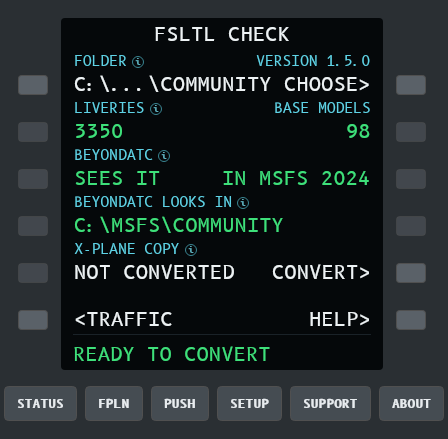
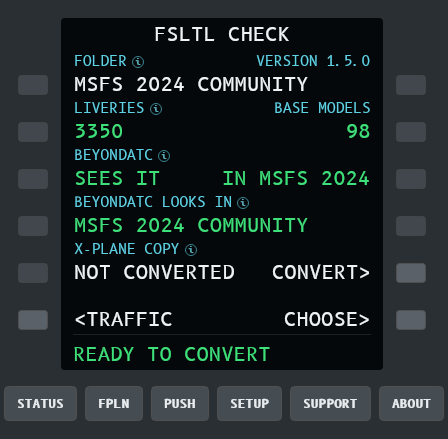
FSLTL CHECK: readable folder paths
MSFS's own Community folders are named (MSFS 2024 COMMUNITY); other paths keep
the drive and as many last folders as fit, dropping a bare Community first
(D:\MSFS2024 Packages, not C:\...\Community). The folder gets the whole line,
CHOOSE moves to the bottom row and the (i) help shows the whole path.

Claude-Session: https://claude.ai/code/session_0129p94YHrYKut7KH6ojqD3F

diff --git a/tests/ClearanceLink.Host.Tests/PanelTests.cs b/tests/ClearanceLink.Host.Tests/PanelTests.cs
@@ -322,6 +322,16 @@ public sealed class PanelTests
     {
         Assert.Equal(@"C:\BeyondATC", CduPages.ShortPath(@"C:\BeyondATC\", 18));
         Assert.Equal(@"D:\...\BeyondATC", CduPages.ShortPath(@"D:\Games\Flight Sim Add-ons\BeyondATC", 18));
+        // As many of the last folders as fit; a bare Community says nothing, so it goes first.
+        Assert.Equal(@"D:\...\Sims\BeyondATC", CduPages.ShortPath(@"D:\Games\Flight Sim Add-ons\Sims\BeyondATC", 24));
+        Assert.Equal(@"D:\MSFS2024 Packages", CduPages.ShortPath(@"D:\MSFS2024 Packages\Community", 24));
+        Assert.Equal(@"E:\...\MSFS\Community", CduPages.ShortPath(@"E:\Games\Microsoft\MSFS\Community", 24));
+        Assert.Equal(@"C:\...\MSFS stuff", CduPages.ShortPath(@"C:\Users\Ben\Documents\MSFS stuff\Community", 24));
+        // MSFS's own Community folders by name: the Store and Steam paths don't fit.
+        Assert.Equal("MSFS 2024 COMMUNITY", CduPages.PlaceName(@"C:\Users\Pilot\AppData\Local\Packages\Microsoft.Limitless_8wekyb3d8bbwe\LocalCache\Packages\Community", 24));
+        Assert.Equal("MSFS 2024 COMMUNITY", CduPages.PlaceName(@"C:\Users\Pilot\AppData\Roaming\Microsoft Flight Simulator 2024\Packages\Community", 24));
+        Assert.Equal("MSFS 2020 COMMUNITY", CduPages.PlaceName(@"C:\Users\Pilot\AppData\Local\Packages\Microsoft.FlightSimulator_8wekyb3d8bbwe\LocalCache\Packages\Community", 24));
+        Assert.Equal(@"D:\MSFS2024 Packages", CduPages.PlaceName(@"D:\MSFS2024 Packages\Community", 24));
     }
 
     [AvaloniaFact]
@@ -370,7 +380,8 @@ public sealed class PanelTests
         var page = CduPages.Build(PanelPage.Fsltl, good);
         Assert.Equal("FSLTL CHECK", page.Title);
         Assert.Equal(("3350", "98"), (page.Rows[1].Left.Text, page.Rows[1].Right.Text));
-        Assert.Equal((@"C:\...\COMMUNITY", "VERSION 1.5.0", "CHOOSE>"), (page.Rows[0].Left.Text, page.Rows[0].LabelRight, page.Rows[0].Right.Text));
+        Assert.Equal((@"C:\MSFS\COMMUNITY", "VERSION 1.5.0", ""), (page.Rows[0].Left.Text, page.Rows[0].LabelRight, page.Rows[0].Right.Text));
+        Assert.Contains(folder, page.Rows[0].Help);
         Assert.Equal(("SEES IT", "IN MSFS 2024"), (page.Rows[2].Left.Text, page.Rows[2].Right.Text));
         Assert.Equal(("3350 LIVERIES", CduKey.ConvertFsltl), (page.Rows[4].Left.Text, page.Rows[4].KeyRight));
         Assert.Equal(("FSLTL READY", CduColor.Green), (page.Scratchpad.Text, page.Scratchpad.Color));
@@ -400,7 +411,8 @@ public sealed class PanelTests
 
         // Converted fine, but MSFS 2024 is here without FSLTL in the Community folder BeyondATC reads (issue #29).
         page = CduPages.Build(PanelPage.Fsltl, good with { BatcModels = BatcTrafficModels.Outcome.NotInMsfs2024, BatcCommunity = @"C:\Users\Pilot\AppData\Roaming\Microsoft Flight Simulator 2024\Packages\Community" });
-        Assert.Equal(("BEYONDATC LOOKS IN", @"C:\...\COMMUNITY", CduColor.Amber), (page.Rows[3].LabelLeft, page.Rows[3].Left.Text, page.Rows[3].Left.Color));
+        Assert.Equal(("BEYONDATC LOOKS IN", "MSFS 2024 COMMUNITY", CduColor.Amber), (page.Rows[3].LabelLeft, page.Rows[3].Left.Text, page.Rows[3].Left.Color));
+        Assert.Contains(@"Roaming\Microsoft Flight Simulator 2024\Packages\Community", page.Rows[3].Help);
         Assert.Equal(("WON'T SEE IT", "NOT IN 2024"), (page.Rows[2].Left.Text, page.Rows[2].Right.Text));
         Assert.Equal("COPY FSLTL TO LOOKS IN", page.Scratchpad.Text);
         // MSFS 2024's settings name only a NextBoot folder: BeyondATC reads none.
@@ -420,7 +432,7 @@ public sealed class PanelTests
         // With MSFS, FSLTL is installed through it; with MSFS 2024, it must go there for BeyondATC.
         Assert.Equal("GET FSLTL OR CHOOSE IT", CduPages.Build(PanelPage.Fsltl, Ready).Scratchpad.Text);
         Assert.Equal("GET FSLTL FOR MSFS 2024", CduPages.Build(PanelPage.Fsltl, Ready with { BatcModels = BatcTrafficModels.Outcome.NotInMsfs2024 }).Scratchpad.Text);
-        Assert.Equal(CduKey.OpenModelsHelp, page.Rows[5].KeyRight);
+        Assert.Equal((CduKey.OpenModelsHelp, CduKey.ChooseFsltlFolder), (page.Rows[0].KeyRight, page.Rows[5].KeyRight));
 
         // Just after CHOOSE, the old folder's results aren't shown.
         page = CduPages.Build(PanelPage.Fsltl, noModels with { FsltlChecking = true });
@@ -512,8 +524,8 @@ public sealed class PanelTests
         // A typical first run: plugin not yet installed, Bluebell installed, FSLTL found but not converted.
         var firstRun = Ready with
         {
-            TrafficAddOn = PluginInstall.State.NotInstalled, CslPackages = 13, CslNames = "BLUEBELL", FsltlFolder = @"C:\MSFS\Community\fsltl-traffic-base",
-            FsltlHealth = new(3350, 98, 0, "1.5.0"), BatcModels = BatcTrafficModels.Outcome.Found, BatcCommunity = @"C:\MSFS\Community",
+            TrafficAddOn = PluginInstall.State.NotInstalled, CslPackages = 13, CslNames = "BLUEBELL", FsltlFolder = @"C:\Users\Pilot\AppData\Local\Packages\Microsoft.Limitless_8wekyb3d8bbwe\LocalCache\Packages\Community\fsltl-traffic-base",
+            FsltlHealth = new(3350, 98, 0, "1.5.0"), BatcModels = BatcTrafficModels.Outcome.Found, BatcCommunity = @"C:\Users\Pilot\AppData\Local\Packages\Microsoft.Limitless_8wekyb3d8bbwe\LocalCache\Packages\Community",
         };
         var window = new PanelWindow(() => firstRun);
         window.Show();
@@ -544,8 +556,8 @@ public sealed class PanelTests
         };
         var flying = Ready with
         {
-            TrafficAddOn = PluginInstall.State.Installed, TrafficAircraft = 23, CslPackages = 13, CslNames = "BLUEBELL", FsltlFolder = @"C:\MSFS\Community\fsltl-traffic-base", FsltlLiveries = 3154,
-            FsltlHealth = new(3154, 98, 0, "1.5.0"), BatcModels = BatcTrafficModels.Outcome.Found, BatcCommunity = @"C:\MSFS\Community",
+            TrafficAddOn = PluginInstall.State.Installed, TrafficAircraft = 23, CslPackages = 13, CslNames = "BLUEBELL", FsltlFolder = @"C:\Users\Pilot\AppData\Local\Packages\Microsoft.Limitless_8wekyb3d8bbwe\LocalCache\Packages\Community\fsltl-traffic-base", FsltlLiveries = 3154,
+            FsltlHealth = new(3154, 98, 0, "1.5.0"), BatcModels = BatcTrafficModels.Outcome.Found, BatcCommunity = @"C:\Users\Pilot\AppData\Local\Packages\Microsoft.Limitless_8wekyb3d8bbwe\LocalCache\Packages\Community",
             FlightPlan = new FlightPlanView(plan, sent.AddMinutes(-2), SavedAs: plan.FileName, SentAt: sent),
         };
         var cleared = new PushView(new PushClearance(sent.AddMinutes(4), 90, "EAST", "pushback approved. Face east."), Preview: new PushPlan(21, 90, 39, "B"), XPlane: true, BetterPushback: true, Automatic: true, Stage: PushStage.WaitingForBrake, BrakeSet: true);

diff --git a/src/ClearanceLink.Host/Panel/CduPage.cs b/src/ClearanceLink.Host/Panel/CduPage.cs
@@ -645,21 +645,24 @@ public static class CduPages
         };
         var looksIn = s switch
         {
-            { BatcCommunity: { } community } => new CduCell(ShortPath(community, Width), s.BatcModels == BatcTrafficModels.Outcome.Found ? CduColor.Green : CduColor.Amber),
             { BatcModels: BatcTrafficModels.Outcome.Pointed or BatcTrafficModels.Outcome.PointedByAnother } => new CduCell("YOUR FSLTL FOLDER", CduColor.Green),
+            { BatcCommunity: { } community } => new CduCell(PlaceName(community, Width), s.BatcModels == BatcTrafficModels.Outcome.Found ? CduColor.Green : CduColor.Amber),
             // MSFS 2024's settings name no packages folder BeyondATC reads (only a NextBoot one, say).
             { BatcModels: BatcTrafficModels.Outcome.NotInMsfs2024 } => new CduCell("NOT SET IN MSFS 2024", CduColor.Amber),
             _ => new CduCell("-"),
         };
         var rows = new[]
         {
+            // The folder gets the whole line (CHOOSE is on the bottom row); the full path is in the (i) help.
             (s.FsltlChecking
                 ? Row("FOLDER", "", new("CHECKING..."), new(""))
                 : s.FsltlFolder is null
-                ? Row("FOLDER", "", new("NOT FOUND", CduColor.Amber), new("CHOOSE>"), CduKey.ChooseFsltlFolder, CduKey.ChooseFsltlFolder)
+                ? Row("FOLDER", "", new("NOT FOUND", CduColor.Amber), new("HOW TO GET>"), CduKey.None, CduKey.OpenModelsHelp)
                 : Row("FOLDER", h?.Version is { } v ? Fit($"VERSION {v.ToUpperInvariant()}", 13) : "",
-                    new(ShortPath(Parent(s.FsltlFolder), Width - 8)), new("CHOOSE>"), CduKey.ChooseFsltlFolder, CduKey.ChooseFsltlFolder))
-                with { Help = "Where the fsltl-traffic-base folder ClearanceLink uses is, and FSLTL's version. CHOOSE picks another." },
+                    new(PlaceName(Parent(s.FsltlFolder), Width)), new("")))
+                with { Help = s.FsltlFolder is { } folder && !s.FsltlChecking
+                    ? $"FSLTL is in {folder}. CHOOSE on the bottom row picks another folder."
+                    : "Where the fsltl-traffic-base folder ClearanceLink uses is, and FSLTL's version. CHOOSE on the bottom row picks it." },
             (known
                 ? Row("LIVERIES", "BASE MODELS",
                     h!.Liveries > 0 ? new($"{h.Liveries}", CduColor.Green) : new("NONE", CduColor.Amber),
@@ -669,9 +672,11 @@ public static class CduPages
             Row("BEYONDATC", "", batc.Item1, batc.Item2)
                 with { Help = "Whether BeyondATC will find FSLTL. Without MSFS 2024, ClearanceLink shows it your FSLTL folder while it's open." },
             Row("BEYONDATC LOOKS IN", "", looksIn, new(""))
-                with { Help = "The only Community folder BeyondATC reads, from MSFS 2024's settings (UserCfg.opt). FSLTL must be in it." },
+                with { Help = s.BatcCommunity is { } where && !s.FsltlChecking
+                    ? $"BeyondATC reads {where}, from MSFS 2024's settings (UserCfg.opt). FSLTL must be in it."
+                    : "The only Community folder BeyondATC reads, from MSFS 2024's settings (UserCfg.opt). FSLTL must be in it." },
             CopyRow(s) with { Help = "The copy of FSLTL converted for X-Plane. Close X-Plane to convert or update it." },
-            Row("", "", new("<TRAFFIC"), new("HELP>"), CduKey.GoTraffic, CduKey.OpenModelsHelp),
+            Row("", "", new("<TRAFFIC"), new("CHOOSE>"), CduKey.GoTraffic, CduKey.ChooseFsltlFolder),
         };
         // A conversion runs in the background: its failure, or the restart it needs, must show here too.
         var line = flash is not null ? new CduCell(flash)
@@ -849,6 +854,10 @@ public static class CduPages
         return cut > 0 ? path[..cut] : path;
     }
 
+    /// <summary>
+    /// A path that fits: whole, else the drive and as many of the last folders as fit (C:\...\Sims\BeyondATC). A
+    /// trailing Community says nothing on its own, so it is dropped before the folder above it would be.
+    /// </summary>
     public static string ShortPath(string path, int max)
     {
         path = path.TrimEnd('\\', '/');
@@ -859,8 +868,51 @@ public static class CduPages
 
         // Split by hand: these are Windows paths, also when the tests run elsewhere.
         var parts = path.Split('\\', '/');
-        var shortened = $"{parts[0]}\\...\\{parts[^1]}";
-        return shortened.Length <= max ? shortened : "..." + parts[^1][^Math.Min(parts[^1].Length, max - 3)..];
+        var community = parts.Length > 2 && parts[^1].Equals("Community", StringComparison.OrdinalIgnoreCase);
+        foreach (var segments in community ? new[] { parts, parts[..^1] } : [parts])
+        {
+            if (string.Join('\\', segments) is { } whole && whole.Length <= max && segments.Length < parts.Length)
+            {
+                return whole;
+            }
+
+            for (var n = segments.Length - 2; n >= (community && segments == parts ? 2 : 1); n--)
+            {
+                var tail = $"{segments[0]}\\...\\{string.Join('\\', segments[^n..])}";
+                if (tail.Length <= max)
+                {
+                    return tail;
+                }
+            }
+        }
+
+        var last = community ? parts[^2] : parts[^1];
+        return "..." + last[^Math.Min(last.Length, max - 3)..];
+    }
+
+    /// <summary>
+    /// A Community folder by name when it is MSFS's own (MSFS 2024 COMMUNITY), else as <see cref="ShortPath"/>: the
+    /// Store and Steam paths are too long to tell apart in 24 characters.
+    /// </summary>
+    public static string PlaceName(string path, int max)
+    {
+        var p = path.TrimEnd('\\', '/').Replace('/', '\\');
+        if (p.EndsWith(@"\Packages\Community", StringComparison.OrdinalIgnoreCase))
+        {
+            if (p.Contains(@"\Microsoft.Limitless_8wekyb3d8bbwe\", StringComparison.OrdinalIgnoreCase)
+                || p.Contains(@"\Microsoft Flight Simulator 2024\", StringComparison.OrdinalIgnoreCase))
+            {
+                return "MSFS 2024 COMMUNITY";
+            }
+
+            if (p.Contains(@"\Microsoft.FlightSimulator_8wekyb3d8bbwe\", StringComparison.OrdinalIgnoreCase)
+                || p.Contains(@"\Microsoft Flight Simulator\", StringComparison.OrdinalIgnoreCase))
+            {
+                return "MSFS 2020 COMMUNITY";
+            }
+        }
+
+        return ShortPath(path, max);
     }
 
     public static string Duration(TimeSpan t) => t.TotalHours >= 1

diff --git a/docs/STATUS.md b/docs/STATUS.md
@@ -41,7 +41,7 @@ _Update this file in every PR that changes behaviour._
 ## Not yet verified
 - `serve` in flight (only ground work to taxi is verified). Wind (`verify: true`) not compared with the cockpit; design speeds and wingspan are fixed values.
 - MSFS starting while ClearanceLink is running (step-aside).
-- FSLTL CHECK and CSL MODELS (2026-10-06, research and plan in the "FSLTL checks and traffic sources" thread; not yet run on Ben's PC): a chosen FSLTL folder is now checked, not just accepted. `FsltlCheck` counts its liveries, the base models they use and liveries whose model is missing, and reads FSLTL's version (done again only for another folder or version; one `fsltl-check:` log line each time). A new FSLTL CHECK page (CHECK> on TRAFFIC's BEYONDATC TRAFFIC line, which is now always shown) lists the folder and version, liveries and base models, whether BeyondATC sees FSLTL (in MSFS 2024, while ClearanceLink is open, or not), the X-Plane copy, and one bottom line saying what to do. Choosing an FSLTL folder opens it. TRAFFIC's FSLTL line says NO BASE MODELS (CHECK>) and SETUP says CHECK FSLTL when the folder has liveries but no models; BEYONDATC TRAFFIC says NOT IN MSFS 2024 instead of NO FSLTL when MSFS 2024 is installed without FSLTL in its Community folder (issue #29). The BLUEBELL line is now CSL MODELS and names what is installed (BLUEBELL, X-CSL, OTHER: by BB_ folder names and an X-CSL folder) or counts packages. The plugin already drew X-CSL and any other CSL package; XPMP2 always prefers an exact converted FSLTL livery, so there is no source-priority setting. Help covers X-CSL and FSLTL CHECK, and now has a step-by-step traffic set-up, a table of what each FSLTL CHECK bottom line means and a "No traffic" checklist under Problems. Final review fixes: a folder with a problem is checked again every minute and when chosen again, so a repaired FSLTL shows without a restart; FSLTL CHECK says CHECKING until a newly chosen folder is read, GET FSLTL FOR MSFS 2024 (or GET FSLTL OR CHOOSE IT) when no FSLTL is found on a PC with MSFS, COPY FSLTL TO LOOKS IN when MSFS 2024 is there without FSLTL in BeyondATC's folder, and READY: n HAVE NO MODEL (green) for a few liveries without a model; FSLTL is also found through the NextBoot folder, so it can be converted. HELP> on FSLTL CHECK opens the traffic help. Not yet tested: installing FSLTL from fslivetrafficliveries.com on a PC without MSFS (help tells those users to copy `fsltl-traffic-base` from a PC that has it; Ben to test and reword if the installer works). Issue #29's support file showed MSFS 2024 (Steam) with an `InstalledPackagesPathNextBoot` line naming the drive FSLTL was on and an `InstalledPackagesPath` line naming the default folder; BeyondATC reads only the second. ClearanceLink now reads UserCfg.opt with BeyondATC's own pattern (it took the NextBoot line before), FSLTL CHECK shows BEYONDATC LOOKS IN (the folder BeyondATC reads) and the `batc-models:` log line names the NextBoot folder too.
+- FSLTL CHECK and CSL MODELS (2026-10-06, research and plan in the "FSLTL checks and traffic sources" thread; not yet run on Ben's PC): a chosen FSLTL folder is now checked, not just accepted. `FsltlCheck` counts its liveries, the base models they use and liveries whose model is missing, and reads FSLTL's version (done again only for another folder or version; one `fsltl-check:` log line each time). A new FSLTL CHECK page (CHECK> on TRAFFIC's BEYONDATC TRAFFIC line, which is now always shown) lists the folder and version, liveries and base models, whether BeyondATC sees FSLTL (in MSFS 2024, while ClearanceLink is open, or not), the X-Plane copy, and one bottom line saying what to do. Choosing an FSLTL folder opens it. TRAFFIC's FSLTL line says NO BASE MODELS (CHECK>) and SETUP says CHECK FSLTL when the folder has liveries but no models; BEYONDATC TRAFFIC says NOT IN MSFS 2024 instead of NO FSLTL when MSFS 2024 is installed without FSLTL in its Community folder (issue #29). The BLUEBELL line is now CSL MODELS and names what is installed (BLUEBELL, X-CSL, OTHER: by BB_ folder names and an X-CSL folder) or counts packages. The plugin already drew X-CSL and any other CSL package; XPMP2 always prefers an exact converted FSLTL livery, so there is no source-priority setting. Help covers X-CSL and FSLTL CHECK, and now has a step-by-step traffic set-up, a table of what each FSLTL CHECK bottom line means and a "No traffic" checklist under Problems. Final review fixes: a folder with a problem is checked again every minute and when chosen again, so a repaired FSLTL shows without a restart; FSLTL CHECK says CHECKING until a newly chosen folder is read, GET FSLTL FOR MSFS 2024 (or GET FSLTL OR CHOOSE IT) when no FSLTL is found on a PC with MSFS, COPY FSLTL TO LOOKS IN when MSFS 2024 is there without FSLTL in BeyondATC's folder, and READY: n HAVE NO MODEL (green) for a few liveries without a model; FSLTL is also found through the NextBoot folder, so it can be converted. FSLTL CHECK names MSFS's own Community folders (MSFS 2024 COMMUNITY) and shows other paths with as many last folders as fit (a bare Community is dropped first; SETUP's folder rows too), with the whole path in the (i) help; CHOOSE moved to the bottom row so the folder gets the whole line, and HOW TO GET> shows when no FSLTL is found. Not yet tested: installing FSLTL from fslivetrafficliveries.com on a PC without MSFS (help tells those users to copy `fsltl-traffic-base` from a PC that has it; Ben to test and reword if the installer works). Issue #29's support file showed MSFS 2024 (Steam) with an `InstalledPackagesPathNextBoot` line naming the drive FSLTL was on and an `InstalledPackagesPath` line naming the default folder; BeyondATC reads only the second. ClearanceLink now reads UserCfg.opt with BeyondATC's own pattern (it took the NextBoot line before), FSLTL CHECK shows BEYONDATC LOOKS IN (the folder BeyondATC reads) and the `batc-models:` log line names the NextBoot folder too.
 - X-Plane traffic plugin (ADR-0004, `plugin/`, protocol `docs/protocol/plugin.md`): built on XPMP2, draws aircraft sent by ClearanceLink with CSL models, puts ground traffic on X-Plane's terrain and reports terrain height back. Compiles and its protocol tests pass on Linux; Windows build runs in GitHub Actions. ClearanceLink side: `PluginLink` (UDP), `clearancelink plugin install|remove|status`, double-click start offers to install it, status page shows it. `TrafficBridge` sends BATC's aircraft (not tugs) to the plugin 10 times a second, with type and airline from `mapping/traffic-models.yaml`, and answers BATC's ground-height polls with the plugin's terrain under that aircraft (nearest airport until the plugin has measured). Live in X-Plane since 2026-10-01 with Bluebell CSL models. Plugin 0.4.0 parks each CSL model on its own wheels, posed with the gear down from its .obj files (checked against Ben's 2,027 Bluebell models); per-type pitch and height in mapping/traffic-models.yaml are only a fallback for models it cannot fit. Plugin 0.3.1 blends between updates (smooth turns and climbs) and probes terrain less often; ClearanceLink sends unchanged parked aircraft every 2 s instead of 10 times a second; 0.3.2 stops those repeats sliding parked aircraft back and forth. 0.4.1 also levels the bogies of models that tilt them on World Traffic's gear dataref (Bluebell's virtual-airline repaints), and removes aircraft whose `del` UDP dropped; ClearanceLink repeats `del` and sends `clear` when it starts. A packet that fails to decode or handle is logged and no longer drops BATC's connection. Aircraft on the ground are drawn wings level (BATC writes a bank on the take-off roll). 0.4.2 patches XPMP2 (plugin/cmake/xpmp2-split-packages.patch) so CSL packages split over several folders load all their models: XPMP2 3.7.0 looked for each .obj in the first folder only, so about 750 Bluebell models (B744_QFA, B772_UAL...) were missing and BATC's aircraft fell back to virtual-airline repaints (YBBN 2026-10-03, 2,283 "could not be found" lines in Log.txt). 0.4.2 also finds each bogie's level from where its wheels end up, which levels the 747's wing-gear bogies (modelled already tilted, turning 30° to 73°). 0.4.3 draws BATC placing an aircraft (a move far faster than its speed) at once, instead of sliding it and overshooting back and forth. Plugin 0.4.4 fits wheels on the nearest LOD only; 0.4.5 turns propellers, engines and tyres from their rpm (XPMP2 draws only the angle it is given); 0.4.6 steers nose wheels from the turn rate, speed and wheelbase; 0.4.7 eases the drawn height across lift-off and touchdown. 0.5.0 is the ClearanceLink name (ADR-0009).
 - Traffic showcase (`docs/runbooks/traffic-showcase.md`): `clearancelink showcase` lines up one aircraft of each type on a runway, nose to tail and grouped Light to Heavy, one per remaining imported model (variants, freighters, other makers) on the parallel runway, and keeps 8 taxiing up and down a taxiway, through the plugin and without BeyondATC. Run at YBBN on 2026-10-04 (01R, 01L, taxiway S); it found most of the fixes below.
 - FSLTL import (ADR-0005, `src/ClearanceLink.Fsltl`, research `docs/research/fsltl-models.md`): `clearancelink fsltl import` converts the user's own FSLTL install into an X-Plane CSL package in `Custom Data/CSL/ClearanceLink-FSLTL` (refuses while X-Plane runs); `serve` then sends BATC's exact livery key to the plugin. Ben's FSLTL 1.5.0: 3,112 liveries on 196 models, 13 GB at 2048 px. Checked in X-Plane at YBBN on 2026-10-03/04 with BATC traffic and the showcase: liveries, textures, faces, gear, wheels, steering and propellers right. Rules learned from those tests, all general: triangles face where their normals point; t = 1 - v; MSFS holds an animation's first and last keys and plays it over its own key range; animations no behaviour or declaration uses are ignored, and a fixed hold loses to a moving animation; unlisted gear and tyre animations are recognised by name; scaled parents are pushed into animated parts; textures without mipmaps get them; opaque materials get opaque alpha; nothing is blended (cut out instead) and propeller blur discs are left out, the still blades turning with the engine; steering is driven by XPMP2's nose wheel angle. External lights (0.7.3, converter version 2; not yet seen in X-Plane): converted models were dark at night because MSFS draws FSLTL's lights from each base model's systems.cfg `[LIGHTS]`, not from the glTF (two testers, 2026-10-06; Bluebell models have their own lights). Each model now gets a lights-only `<model>_lights.obj` with X-Plane's named beacon, strobe, nav, landing and taxi lights at FSLTL's positions (lights placed on a glTF node use its rest position), shown on XPMP2's light datarefs as Bluebell does, without spill lights; logo and wing lights are left out. Packages converted before show UPDATE MODELS; updating reuses the converted textures. Left out: Microsoft's Asobo models, the SU95 (730k triangles) and the SF34/SF34F (lopsided, see the check in FsltlImporter). Known: the FSPX MD-11's centre gear hangs above the ground in FSLTL's own model; the TFS Dash 8 ships 24 copies of one model.

diff --git a/docs/help.md b/docs/help.md
@@ -197,13 +197,13 @@ find it. The bottom line says **FSLTL READY** when all is well, or the one thing
 
 | Line | What it means |
 |---|---|
-| FOLDER, VERSION | Where your `fsltl-traffic-base` folder is, and FSLTL's version. CHOOSE picks another. |
+| FOLDER, VERSION | Where your `fsltl-traffic-base` folder is, and FSLTL's version. **MSFS 2024 COMMUNITY** (or 2020) means MSFS's own Community folder. Rest the mouse on the **i** to see the whole path. **CHOOSE**, at the bottom right, picks another folder. |
 | LIVERIES, BASE MODELS | How many liveries the folder has, and the base aircraft models they use. Every livery needs its base model in the same folder. Microsoft's own aircraft in FSLTL aren't counted or converted. |
 | BEYONDATC | **SEES IT IN MSFS 2024**: BeyondATC finds FSLTL itself. **SEES IT WHILE OPEN**: no MSFS 2024, so ClearanceLink shows BeyondATC your folder while it's open. **WON'T SEE IT**: BeyondATC makes no traffic; the bottom line says what to do. **CAN'T TELL**: see BEYONDATC CHECK FAILED below. |
-| BEYONDATC LOOKS IN | The one Community folder BeyondATC reads, from MSFS 2024's settings. With MSFS 2024, FSLTL must be in this folder. **NOT SET IN MSFS 2024**: MSFS 2024's settings name no folder BeyondATC reads, so it finds no traffic. Make a [support file](#getting-help) and send it. |
+| BEYONDATC LOOKS IN | The one Community folder BeyondATC reads, from MSFS 2024's settings (the **i** shows the whole path). With MSFS 2024, FSLTL must be in this folder, so it should match FOLDER. **NOT SET IN MSFS 2024**: MSFS 2024's settings name no folder BeyondATC reads, so it finds no traffic. Make a [support file](#getting-help) and send it. |
 | X-PLANE COPY | How many liveries are converted for X-Plane, with CONVERT or UPDATE. A few heavy models are left out, so it can be slightly fewer than LIVERIES. |
 
-What the bottom line tells you to do. CHOOSE and CONVERT are on the FOLDER and X-PLANE COPY lines.
+What the bottom line tells you to do. CHOOSE is at the bottom right; CONVERT and UPDATE are on the X-PLANE COPY line.
 
 | Bottom line | What to do |
 |---|---|
@@ -230,7 +230,7 @@ fill in aircraft FSLTL doesn't have. BeyondATC can't see them, so they don't rep
 Bluebell and X-CSL together.
 
 The **CSL MODELS** line on TRAFFIC names what ClearanceLink found (BLUEBELL, X-CSL, OTHER), or the number of packages
-when the names don't fit. Restart X-Plane after adding models.
+when the names don't fit. The names come from the folders: X-CSL is recognised when its folder name has X-CSL in it (the updater's own folder does), and Bluebell by its `BB_` folders. Other packages show as OTHER and work just the same. Restart X-Plane after adding models.
 
 **Bluebell**
 1. Download the **Bluebell OBJ8 CSL packages** from the X-Plane.org forums:
